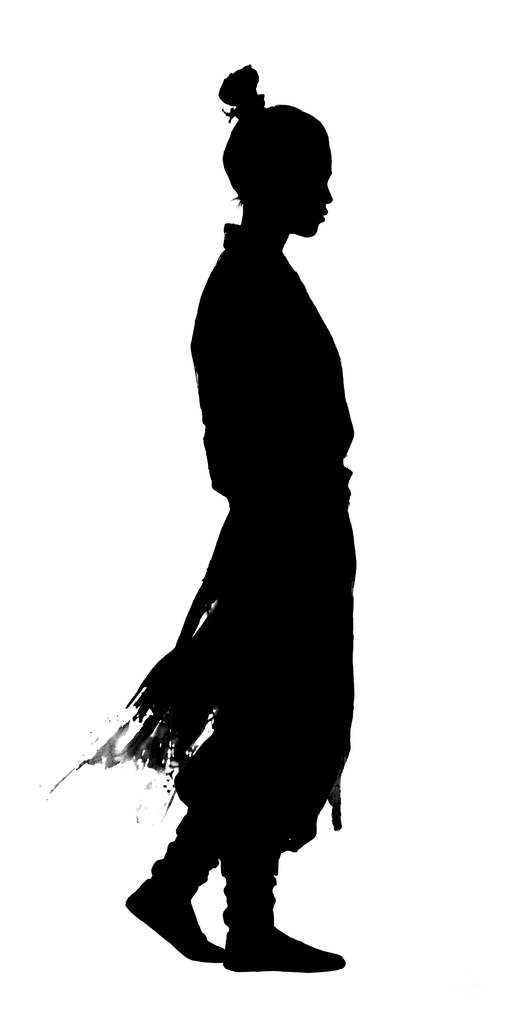
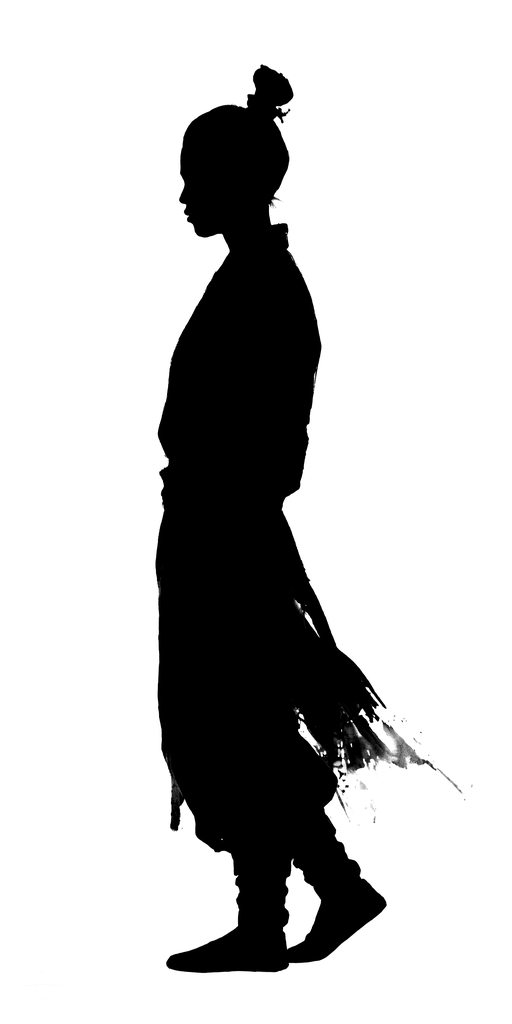
#174 [수정] 제자 실루엣 3장 좌우 반전 — stance·전수 몸통을 계약 방향으로, 짝 팔은 어깨 접합 유지 (T2) (#206)
## Summary

spec § 아트 생성 브리프 `[sil_disciple]` 자세 표의 pass 1(`facing three-quarter
left`) · pass 2(`torso turned three-quarter left`)가 지시한 방향과 납품 PNG 가
반대였다. 결과로 ① S4 파견 관전 · S6 파견 완수에서 제자가 좌측 원경의 도전자에게 등을 돌리고 ② 전수 무대에서
사부·제자가 마주 서 대치 구도로 읽혔다. 어긋남의 소재가 자산이므로 자산 쪽에서 닫는다 — 계약 위반을 CSS 로 가리면 결함이
렌더 원장에 새겨진다.

pass 3(팔)에는 **방향 규정이 없다** — 그 장은 계약 위반이 아니라 몸통 캔버스 좌표에 결합된 짝이라 함께
뒤집는다(#171 이 맞춘 어깨 접합).

REQ-860 은 「같은 방향」 + 「제자가 사부의 등 뒤」 **두 절**이고, 이 PR 이 닫는 것은 첫 절이다. 둘째 절은
전수 무대 반전(`.hall.transmit .fig`)의 존폐 안건으로 이 PR 밖에 남는다 (이슈 #205 — 아래
Follow-up ⓒ).

Closes #174

## Changes

- `assets/art/silhouettes/sil_disciple_stance.png` — Pillow
`ImageOps.mirror` 무손실 반전 재저장.
- `assets/art/silhouettes/sil_disciple_follow_body.png` ·
`sil_disciple_follow_arm.png` — 같은 반전. 팔은 몸통 캔버스 좌표에 결합돼 있어 함께 뒤집어야 어깨
접합이 유지된다.
- `index.html` `:root` — 미러의 회전 켤레 2값. `--tm-pupil-arm-origin: 52% 28% →
48% 28%`(=100−52) · `--tm-follow-angle: 26deg → -26deg`(반사에 의한 회전의 켤레는
중심이 반사되고 부호가 뒤집힌 회전이다). 두 값이 한 짝인 사실을 주석 1개로 통합했다.
- `docs/ai-log.md` — 자산 재저장 채택 1행(대안: CSS `scaleX(-1)` 보정 · AI 재생성).

`src/` 무변경 — 자산 방향은 배치 축이 아니라 그림의 성질이라 코드가 관여할 자리가 없다. `index.html` 의
스코프 밖 CSS 규칙 정리·통합도 하지 않았다(레인 규약).

## Test results

- **L1 `ci` 등가 로컬 전건 green** — `node --check` 전 `*.mjs` ·
`scripts/check-imports.mjs`(지정자 186건) · `node tests/harness.mjs`(**단정
5248건 · 실패 0건**) · `scripts/check-font-coverage.mjs`(빌드 사용 글자 514건 ·
**미커버 0건**) · `comment-lint`(hard-fail 0건).
[…]

diff --git a/index.html b/index.html
@@ -230,10 +230,10 @@
   --tm-glow-master-h: 204px;
   --tm-glow-pupil-w: 146px;
   --tm-glow-pupil-h: 162px;
-  /* 회전 중심은 제자 어깨다 — 실루엣 캔버스(512x1024) 안의 비율이라 폭·높이가 바뀌어도 따라가고,
-     사부 어깨는 x·y 가 모두 달라 한 토큰을 나눠 쓸 수 없다 (#171). */
-  --tm-pupil-arm-origin: 52% 28%;
-  --tm-follow-angle: 26deg;
+  /* 두 값은 한 짝이다 — 자산을 미러했으므로 원점 X 와 각도 부호가 그 켤레로 뒤집혀야 하고,
+     `.fig` 가 캔버스 비율(512/1024)을 고정한 덕에 백분율 원점이 제자 어깨를 계속 문다 (#174). */
+  --tm-pupil-arm-origin: 48% 28%;
+  --tm-follow-angle: -26deg;
   /* 연출 전체 길이와 팔이 맞아떨어지는 시간 — 한 연출의 두 구간이라 같은 자리에 둔다.
      행 간격은 앞의 값에서 파생하므로 별도 토큰을 두지 않는다 (#172). */
   --tm-follow-delay: 1400ms;

diff --git a/docs/ai-log.md b/docs/ai-log.md
@@ -99,3 +99,4 @@
 | 09-03 20:2x | S7 슬롯 표시 전용화 (#170) | Claude Code `external-reviewer` L5b (Important) | 슬롯 칸이 버튼에서 표시용 `div` 가 되면서 스크롤 스트립 안에 포커스 가능한 자식이 0이 됐다 — 칸이 늘면 키보드로 뒤쪽 카드에 닿을 수 없다 | **채택 (스트립에 `tabindex=0` + `role=list`/`listitem` + `aria-label`)** | 현행 슬롯 3칸에서는 오버플로가 없어 발현하지 않지만, 「칸이 늘어도 규격이 그대로」가 이 변경의 존재 이유라 확장 시점에 확정적으로 발현한다. Chrome 은 키보드-포커스 가능 스크롤러로 구제하지만 다른 엔진은 아니고, 이 저장소는 이미 REQ-911 로 roving tabindex 접근성 계약을 지고 있다. `role=group` 대신 `list`/`listitem` 을 쓴 것은 낭독에 「몇 칸 중 몇 번째」가 실려, 같은 화면의 도전자 목록(`radiogroup`)과 비대칭이 사라지기 때문이다 |
 | 09-03 20:2x | S7 슬롯 표시 전용화 (#170) | Claude Code `external-reviewer` L5b (Important) | 파해 미장착 경고가 「도장에서 바꾼다」라는 1단 조작으로 말하는데, 도장의 「장착」 버튼은 슬롯이 꽉 찬 상태(=그 경고가 뜨는 바로 그 상태)에서 잠겨 있다 | **채택 (「도장에서 해제하고 장착한다」로 2단 문면)** | `dojo.mjs` 의 장착 버튼이 `!session.slots.includes(null)` 로 잠기는 것을 코드로 확인했다. 교체 우회로가 이 PR 로 사라졌으므로 유일 경로의 2단 성격이 문면에 드러나야 한다. 실측으로 브리핑 높이는 그대로(449.5px, 「대련 시작」 bottom 840 ≤ 852)라 줄바꿈 비용도 없었다. 도장 쪽 잠금 사유 표시(부제)는 이 PR 밖이라 손대지 않았다 |
 | 09-03 22:0x | 낭독기 축 스펙 철거 (#200) | 운영자 (Claude Code 무인 워커 구현) | 2026-09-03 판정으로 「일대종사」가 낭독기(스크린 리더)를 지원하지 않기로 확정 — 낭독 조문을 스펙에서 어떻게 걷을지. ⓐ 조문·케이스·주석 앵커까지 무흔적 삭제 ⓑ 조문만 삭제하고 자리에 폐기 기록을 남긴다 | **채택 (ⓑ 조문 삭제 + 묘비·폐기 각주)** | 이번에 지운 「REQ-806·807·911 의 구현은 그대로 남는다」 문단이 바로 #125 가 남긴 근거 문단이었다 — 무흔적 삭제는 같은 되살림을 한 번 더 부른다. 더해 코드 주석 9곳이 REQ-806·REQ-807 을 앵커로 인용하고 있어(실측 — `verdict-overlay.mjs` 5 · `app.mjs` 1 · `duel.mjs` 1 · `train.mjs` 1 · `index.html` 1), 흔적 없이 지우면 그 앵커가 전부 「없는 REQ」를 가리키고 다음 세션이 스펙을 되살리는 쪽으로 오독한다. REQ-911 은 통째로 지우지 않고 낭독 전용 어구(`role="radio"`·`aria-disabled`·텍스트 대체)만 걷었다 — `<button>`/`disabled` 는 키보드 조작과 클릭 차단이라 낭독기와 무관한 조작 계약이고, 지우면 실제 조작이 회귀한다. 낭독기가 아닌 접근성 축(REQ-210 응수 창 ×1.3 · REQ-819 색+형태 병기 · REQ-910 44px 히트)은 전부 존치했다 — 판정의 사정권은 낭독 채널 하나다 |
+| 09-03 22:3x | 제자 실루엣 방향 교정 (#174) | Claude Code (Opus 5, 무인 워커) | 계약 방향을 어긴 제자 실루엣 2장(stance·전수 몸통)과 그 캔버스 결합 짝인 팔 1장을 CSS `scaleX(-1)` 로 가릴지, 납품 PNG 를 좌우 반전해 재저장할지, 생성 AI 에 재프롬프트할지 | **채택 (PNG 재저장 — Pillow `ImageOps.mirror` 1회, AI 생성 원본은 재생성 없이 변환만)** | #171 과 같은 축이다 — 어긋남의 소재가 자산이므로 렌더 원장에서 보정하면 결함이 CSS 에 새겨지고, 특히 전수 무대의 `scaleX(-1)` 은 **장면 연출**이라 그 자리에 자산 보정을 겹치면 다음 사람이 두 반전을 구별할 수 없다. 재생성은 이미 승인된 실루엣 화풍을 비결정론으로 되돌리는 데다, 방향만 어긋난 자산에는 무손실 미러가 정확히 같은 그림을 준다. 팔·몸통은 **함께** 미러해야 한다 — #171 이 맞춘 어깨 접합이 캔버스 좌표 결합이라 한 장만 뒤집으면 다시 어긋난다. 그 미러가 렌더에 되먹이는 값 중 회전 켤레 2개를 같이 뒤집었다(역광 x 는 오프셋 10.4px 를 육안 수용해 미조정 — 이슈 #205 합본): 회전 원점 X `52% → 48%`(=100−52) 와 회전 부호 `26deg → -26deg`(반사에 의한 회전의 켤레는 중심이 반사되고 부호가 뒤집힌 회전이다). 합성 시뮬레이션으로 `mirror(변경 전 화면)` 과 `변경 후 화면` 의 알파가 픽셀 단위 동일함을 확인해 #171 의 정렬이 비트 단위로 보존됨을 근거로 삼았다 |
